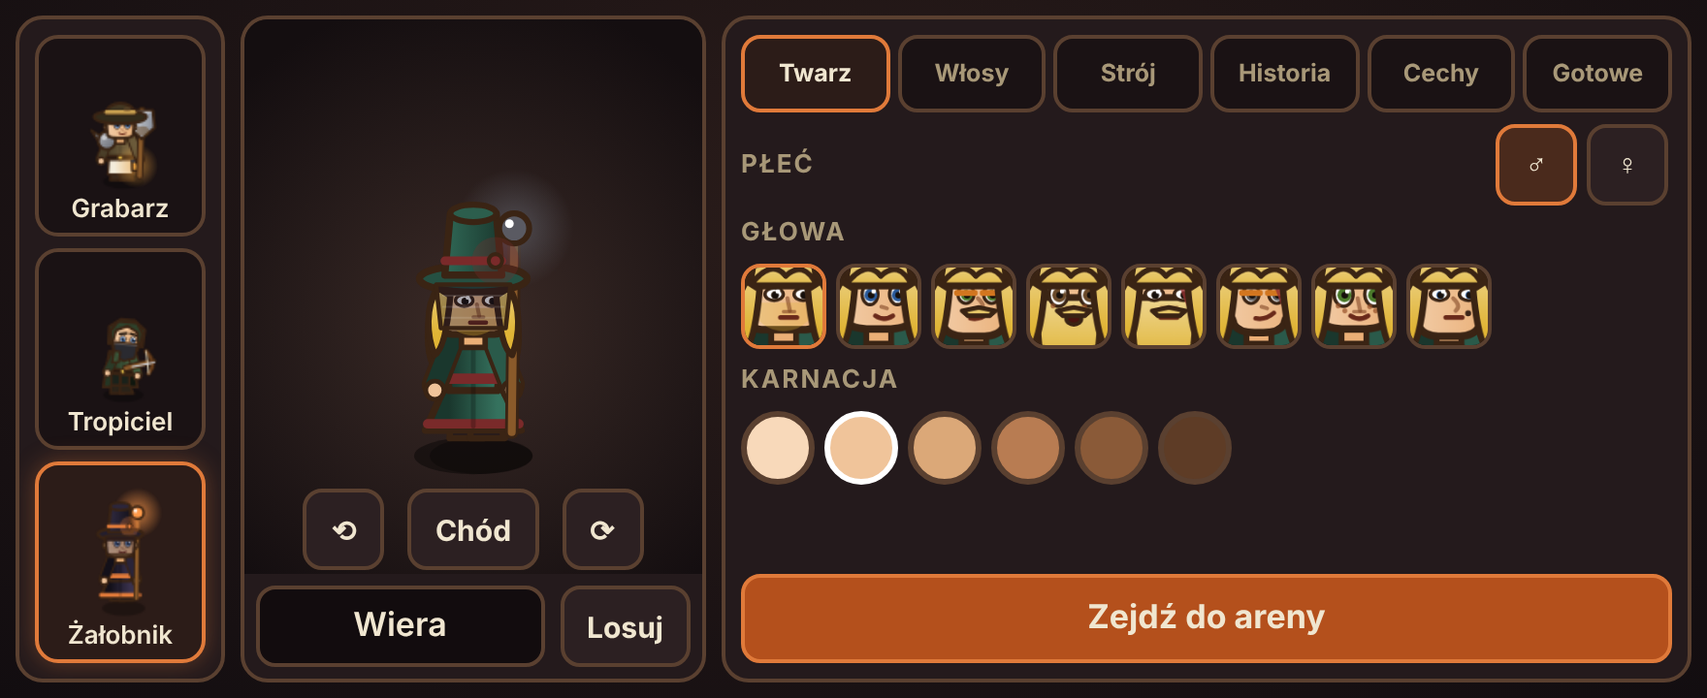
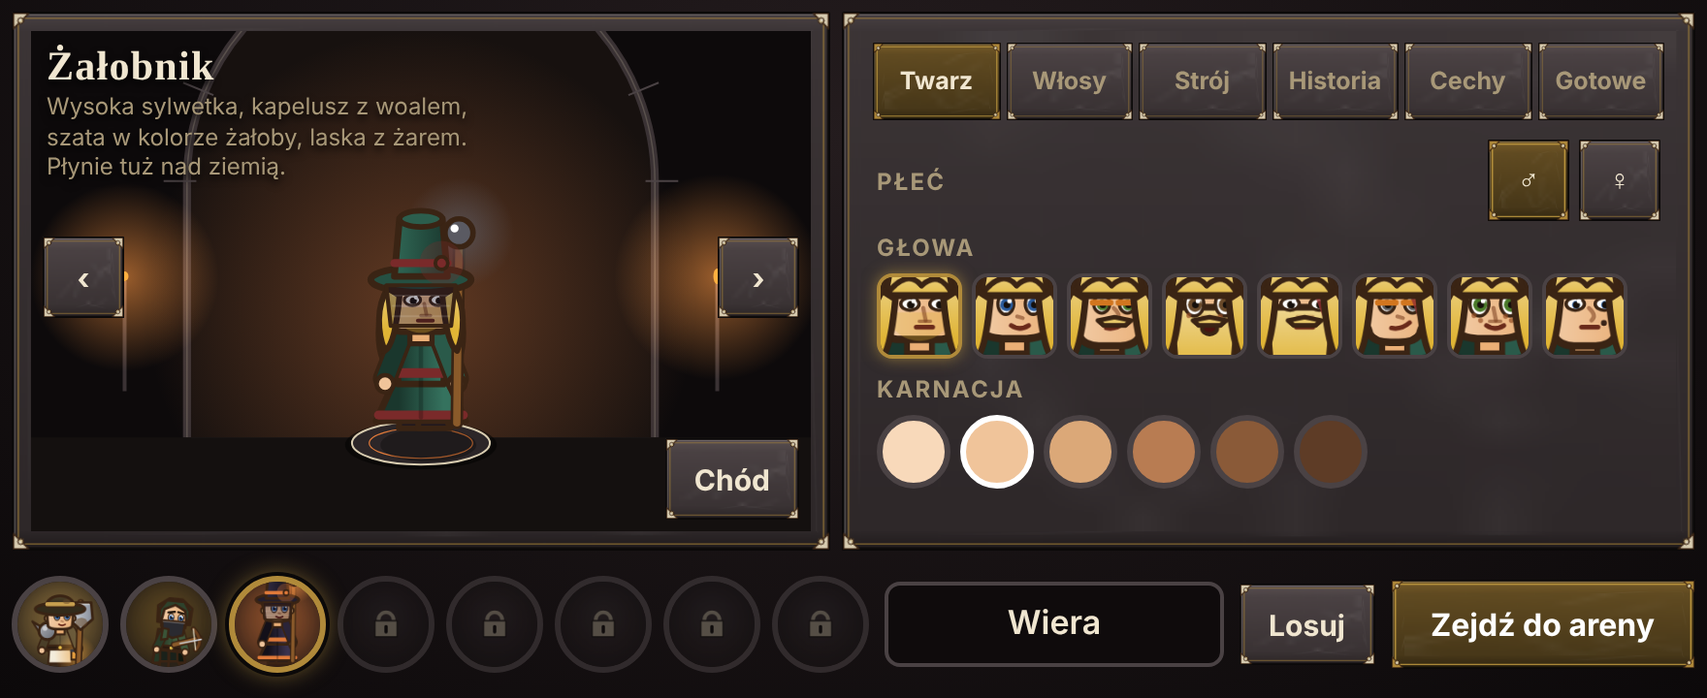
Kreator jak w Dofusie (scena, rząd klas ze slotami), oprawa z żelaza i kości, ramki w walce
Claude-Session: https://claude.ai/code/session_01YGgK3XekFYaLDhBRBtmmRq

diff --git a/www/kreator.html b/www/kreator.html
@@ -1,57 +1,64 @@
 <!doctype html><html lang="pl"><head><meta charset="utf-8">
 <meta name="viewport" content="width=device-width,initial-scale=1,maximum-scale=1,user-scalable=no"><title>Kreator postaci</title>
 <style>
-:root{--bg:#161014;--panel:#241a1c;--edge:#5a4030;--ink:#f0e6d0;--dim:#a89878;--ember:#e07a3a}
-*{box-sizing:border-box}html,body{margin:0;height:100%;background:radial-gradient(ellipse at 50% 30%,#2a1c1a,#120d10);color:var(--ink);font:15px system-ui,sans-serif;-webkit-user-select:none;user-select:none;overscroll-behavior:none}
-#app{display:grid;grid-template-columns:108px minmax(200px,1fr) minmax(330px,500px);gap:8px;height:100%;padding:8px;max-width:1280px;margin:0 auto}
-#rotate{display:none;position:fixed;inset:0;z-index:9;background:#120d10;color:var(--ink);align-items:center;justify-content:center;text-align:center;font:700 20px system-ui;padding:24px}
+:root{--bg:#120e10;--ink:#f0e6d0;--dim:#a89878;--ember:#e07a3a;--brass:#b08a3a;--edge:#3a3234;--panel:#1f1a1b}
+*{box-sizing:border-box}html,body{margin:0;height:100%;background:radial-gradient(ellipse at 50% 20%,#241c1e,#0c090a);color:var(--ink);font:15px system-ui,sans-serif;-webkit-user-select:none;user-select:none;overscroll-behavior:none}
+button{touch-action:manipulation;font-family:inherit;color:var(--ink)}
+#app{display:grid;grid-template-columns:minmax(0,1fr) minmax(330px,440px);grid-template-rows:minmax(0,1fr) 64px;gap:6px;height:100%;padding:6px;max-width:1280px;margin:0 auto}
+#rotate{display:none;position:fixed;inset:0;z-index:9;background:#120d10;align-items:center;justify-content:center;text-align:center;font:700 20px system-ui;padding:24px}
 @media (orientation:portrait){#rotate{display:flex}}
-.panel{background:var(--panel);border:2px solid var(--edge);border-radius:14px;padding:8px;overflow:hidden;min-height:0}
-h2{margin:0 0 8px;font:700 13px system-ui;letter-spacing:.08em;text-transform:uppercase;color:var(--dim)}
-#classes{display:flex;flex-direction:column;gap:6px}
-.card{flex:1 1 0;min-height:0;overflow:hidden;border:2px solid var(--edge);border-radius:12px;background:#1a1214;color:var(--ink);padding:4px;display:flex;flex-direction:column;align-items:center;gap:2px;font:600 13px system-ui;touch-action:manipulation}
-.card canvas{flex:1 1 0;min-height:0;width:100%;object-fit:contain}
-.card span{white-space:nowrap;font-size:13px}
-.card.on{border-color:var(--ember);background:#2c1c18;box-shadow:0 0 12px rgba(224,122,58,.35)}
-#stage{position:relative;display:flex;flex-direction:column;padding:0;overflow:hidden}
-#view{flex:1;min-height:0;width:100%;display:block}
-#rot{position:absolute;left:0;right:0;bottom:56px;display:flex;justify-content:center;gap:12px}
-#name{display:flex;gap:8px;padding:6px}
-#name input{flex:1;min-width:0;height:42px;border-radius:10px;border:2px solid var(--edge);background:#120c0e;color:var(--ink);font:600 17px system-ui;padding:0 12px;text-align:center}
-button{touch-action:manipulation;font-family:inherit}
-.btn{min-width:42px;height:42px;border-radius:10px;border:2px solid var(--edge);background:#2c2022;color:var(--ink);font:700 15px system-ui;padding:0 12px}
-.btn.on{border-color:var(--ember);background:#4a2a1c}
-.btn.go{background:#b4501c;border-color:#e07a3a;font-size:17px;height:46px;width:100%}
+.fr{background:var(--panel);border:10px solid #2c2628;border-image:var(--f-panel) 16 fill/10px stretch;min-height:0;min-width:0;position:relative}
+#stage{grid-column:1;grid-row:1;overflow:hidden;padding:0}
+#view{position:absolute;inset:0;width:100%;height:100%;display:block}
+#cname{position:absolute;left:8px;top:6px;max-width:62%;pointer-events:none;text-shadow:0 2px 4px #000}
+#cname b{display:block;font:700 21px Georgia,serif;letter-spacing:.03em}#cname small{display:block;color:var(--dim);font-size:12px;line-height:1.3}
+#left,#right{position:absolute;top:50%;margin-top:-23px}#left{left:6px}#right{right:6px}
+#walk{position:absolute;right:6px;bottom:6px}
+#opts{grid-column:2;grid-row:1;display:flex;flex-direction:column;gap:6px;padding:0}
+#bottom{grid-column:1/-1;grid-row:2;display:flex;align-items:center;gap:8px;min-width:0}
+#classes{display:flex;gap:6px;flex:none}
+.med{width:50px;height:50px;border-radius:50%;padding:0;border:3px solid #4a4244;background:#1a1516;overflow:hidden;position:relative;flex:none}
+.med canvas{width:100%;height:100%;display:block}
+.med.on{border-color:var(--brass);box-shadow:0 0 0 2px #0b0909,0 0 12px rgba(224,180,74,.55)}
+.med.locked{opacity:.55}
+#nm{flex:1;min-width:110px;height:44px;border:2px solid #4a4244;border-radius:8px;background:#0f0b0c;color:var(--ink);font:600 17px system-ui;padding:0 10px;text-align:center}
+.btn{min-width:42px;height:42px;border:7px solid transparent;border-image:var(--f-btn) 16 fill/7px stretch;background:#2a2425;font:700 15px system-ui;padding:0 8px;display:inline-flex;align-items:center;justify-content:center}
+.btn.on{border-image-source:var(--f-on)}
+.btn.go{height:46px;padding:0 14px;font-size:16px;flex:none;border-image-source:var(--f-on);color:#fff}
+#tabs{display:grid;grid-template-columns:repeat(6,1fr);gap:3px;flex:none;padding:6px 6px 0}
+.tab{height:40px;min-width:0;border:6px solid transparent;border-image:var(--f-btn) 16 fill/6px stretch;background:#2a2425;color:var(--dim);font:700 12.5px system-ui;padding:0}
+.tab.on{border-image-source:var(--f-on);color:var(--ink)}
+#body{flex:1 1 0;min-height:0;overflow:auto;padding:4px 8px 6px}
+h2{margin:0 0 6px;font:700 12px system-ui;letter-spacing:.09em;text-transform:uppercase;color:var(--dim)}
 .row{display:flex;flex-wrap:wrap;gap:5px;margin-bottom:8px}
-#opts{display:flex;flex-direction:column;gap:6px}
-#tabs{display:grid;grid-template-columns:repeat(6,1fr);gap:4px;flex:none}
-.tab{height:40px;min-width:0;border:2px solid var(--edge);border-radius:10px;background:#1a1214;color:var(--dim);font:700 12.5px system-ui;padding:0 1px}
-.tab.on{border-color:var(--ember);color:var(--ink);background:#2c1c18}
-#body{flex:1 1 0;min-height:0;overflow:auto;padding-right:2px}
-#foot{flex:none}
-.hd{display:flex;align-items:center;justify-content:space-between;margin-bottom:6px}.hd h2{margin:0}
-.th{width:44px;height:44px;border:2px solid var(--edge);border-radius:10px;background:#1a1214;padding:0;overflow:hidden}
-.th.on{border-color:var(--ember)}
-.sw{width:38px;height:38px;border-radius:50%;border:3px solid var(--edge);padding:0}
+.hd{display:flex;align-items:center;justify-content:space-between;margin-bottom:6px}.hd h2{margin:0}.hd .row{margin:0}
+.th{width:44px;height:44px;border:2px solid #4a4244;border-radius:8px;background:#1a1516;padding:0;overflow:hidden}
+.th.on{border-color:var(--brass);box-shadow:0 0 8px rgba(224,180,74,.5)}
+.sw{width:38px;height:38px;border-radius:50%;border:3px solid #4a4244;padding:0}
 .sw.on{border-color:#fff}
-.org{width:100%;text-align:left;border:2px solid var(--edge);border-radius:10px;background:#1a1214;color:var(--ink);padding:6px 10px;margin-bottom:6px}
+.org{width:100%;text-align:left;border:2px solid #4a4244;border-radius:8px;background:#1a1516;padding:6px 10px;margin-bottom:6px}
 .org .t{display:flex;justify-content:space-between;gap:8px}.org span{display:block;color:var(--dim);font-size:12px;line-height:1.3}.org i{color:var(--ember);font-style:normal;font-size:12px;white-space:nowrap}
-.org.on{border-color:var(--ember);background:#2c1c18}
-.traits{display:grid;grid-template-columns:1fr 1fr;gap:5px}.chip{height:auto;min-height:44px;text-align:left;padding:4px 8px;line-height:1.2;font-size:14px;min-width:0}.chip small{display:block;color:var(--dim);font-weight:400;font-size:11.5px}
+.org.on{border-color:var(--brass);background:#2a2116}
+.traits{display:grid;grid-template-columns:1fr 1fr;gap:5px}
+.chip{height:auto;min-height:44px;text-align:left;padding:2px 4px;line-height:1.2;font-size:14px;min-width:0;display:block}.chip small{display:block;color:var(--dim);font-weight:400;font-size:11.5px}
 #sum{font-size:14px;line-height:1.55;color:var(--dim)}#sum b{color:var(--ink)}
-#msg{color:var(--ember);min-height:16px;font-size:13px;margin:0 0 6px}
+#msg{color:var(--ember);min-height:16px;font-size:12.5px;margin:0 0 5px}
 </style></head><body><div id="app">
-<div class="panel" id="classes"><h2 style="display:none">Klasa</h2></div>
-<div class="panel" id="stage"><canvas id="view"></canvas><div id="rot"><button class="btn" id="left">⟲</button><button class="btn" id="walk">Chód</button><button class="btn" id="right">⟳</button></div>
-<div id="name"><input id="nm" maxlength="24" aria-label="Imię"><button class="btn" id="rnd">Losuj</button></div></div>
-<div class="panel" id="opts"><div id="tabs"></div><div id="body"></div><div id="foot"></div></div></div><div id="rotate">Obróć telefon do poziomu</div>
+<div class="fr" id="stage"><canvas id="view"></canvas>
+<div id="cname"><b id="cn"></b><small id="cr"></small></div>
+<button class="btn" id="left" aria-label="Obróć w lewo">‹</button><button class="btn" id="right" aria-label="Obróć w prawo">›</button><button class="btn" id="walk">Chód</button></div>
+<div class="fr" id="opts"><div id="tabs"></div><div id="body"></div></div>
+<div id="bottom"><div id="classes"></div><input id="nm" maxlength="24" aria-label="Imię"><button class="btn" id="rnd">Losuj</button><button class="btn go" id="go">Zejdź do areny</button></div></div>
+<div id="rotate">Obróć telefon do poziomu</div>
 <script type="module">
-import {heroSpec,CLASS_IDS,CLASS_LOOKS,SKIN_TONES,HAIR_COLORS,HAIR_NAMES,facesFor,HAIR_BY_GENDER,SWATCHES,COLOR_SLOTS,randomHeroOpts,randomName} from '../src/art/classes.js';
+import {heroSpec,CLASS_IDS,CLASS_SLOTS,CLASS_LOOKS,SKIN_TONES,HAIR_COLORS,HAIR_NAMES,facesFor,HAIR_BY_GENDER,SWATCHES,COLOR_SLOTS,randomHeroOpts,randomName} from '../src/art/classes.js';
 import {drawCharacter,DIRS} from '../src/art/characters.js';
 import {CLASSES,ORIGINS,TRAITS,MAX_TRAITS,startStats} from '../src/game/classdata.js';
 import {glow} from '../src/art/mood.js';
+import {installFrames,drawLock} from '../src/art/ui.js';
 import {newCharacter} from '../src/game/progression.js';
 import {saveCharacter} from '../src/game/save.js';
+installFrames();
 const $=id=>document.getElementById(id),el=(t,a={},k=[])=>{const e=document.createElement(t);Object.assign(e,a);k.forEach(c=>e.append(c));return e};
 const ORDER=['SE','SW','NW','NE'];
 const TABS=[['twarz','Twarz'],['wlosy','Włosy'],['stroj','Strój'],['org','Historia'],['cechy','Cechy'],['gotowe','Gotowe']];
@@ -60,21 +67,28 @@ const st={classId:'grabarz',female:false,face:1,hairStyle:'short',hair:HAIR_COLO
 const spec=(over={})=>heroSpec(st.classId,{...st,seed:st.heroSeed,...over});
 const dirOpt=()=>DIRS[ORDER[st.dir]];
 
-function thumb(cv,sp,K0=2.9){const K=K0*cv.width/58;const g=cv.getContext('2d');g.clearRect(0,0,cv.width,cv.height);g.fillStyle='#241a1c';g.fillRect(0,0,cv.width,cv.height);
+function thumb(cv,sp,K0=2.9){const K=K0*cv.width/58;const g=cv.getContext('2d');g.clearRect(0,0,cv.width,cv.height);g.fillStyle='#1a1516';g.fillRect(0,0,cv.width,cv.height);
   drawCharacter(g,cv.width/2,cv.height*0.52+35*sp.sc*K,{...sp,sc:sp.sc*K,hat:null},{...DIRS.SE})}
-function portrait(cv,id){const g=cv.getContext('2d');g.clearRect(0,0,cv.width,cv.height);const sp=heroSpec(id,{face:1,colors:CLASS_LOOKS[id].colors});drawCharacter(g,cv.width/2,cv.height-6,{...sp,sc:sp.sc*0.93},{...DIRS.SE})}
+// medalion klasy: popiersie na tle w kolorze klasy; zablokowany slot to kłódka
+function medal(cv,slot){const g=cv.getContext('2d'),W=cv.width;g.clearRect(0,0,W,W);
+  const gr=g.createRadialGradient(W/2,W*.4,4,W/2,W/2,W*.7);
+  if(slot.locked){gr.addColorStop(0,'#2a2426');gr.addColorStop(1,'#151112');g.fillStyle=gr;g.fillRect(0,0,W,W);drawLock(g,W/2,W/2,W*.42);return}
+  const L=CLASS_LOOKS[slot.id];gr.addColorStop(0,L.colors[1]+'88');gr.addColorStop(1,'#151112');g.fillStyle=gr;g.fillRect(0,0,W,W);
+  const sp=heroSpec(slot.id,{face:1,colors:L.colors});drawCharacter(g,W/2,W*1.02,{...sp,sc:sp.sc*W/58},{...DIRS.SE})}
+function thumbBtn(id,on,fn,over,title){const cv=el('canvas',{width:88,height:88});cv.style.cssText='width:100%;height:100%;display:block';const b=el('button',{className:'th'+(on?' on':''),id,title},[cv]);b.onclick=fn;thumb(cv,spec(over));return b}
+
 function build(){
-  const cl=$('classes');cl.querySelectorAll('.card').forEach(n=>n.remove());
-  for(const id of CLASS_IDS){const c=CLASSES[id],cv=el('canvas',{width:70,height:86});const b=el('button',{className:'card'+(st.classId===id?' on':''),id:'cls-'+id},[cv,el('span',{textContent:c.name})]);
-    b.onclick=()=>{st.classId=id;st.colors=[...CLASS_LOOKS[id].colors];render()};cl.append(b);portrait(cv,id)}
+  const cl=$('classes');cl.innerHTML='';
+  for(const sl of CLASS_SLOTS){const cv=el('canvas',{width:100,height:100}),b=el('button',{className:'med'+(sl.locked?' locked':'')+(st.classId===sl.id?' on':''),id:'cls-'+sl.id,title:sl.locked?'Wkrótce':CLASSES[sl.id].name},[cv]);
+    if(sl.locked)b.setAttribute('aria-disabled','true');else b.onclick=()=>{st.classId=sl.id;st.colors=[...CLASS_LOOKS[sl.id].colors];render()};cl.append(b);medal(cv,sl)}
+  $('cn').textContent=CLASSES[st.classId].name;$('cr').textContent=CLASS_LOOKS[st.classId].note;
   const tb=$('tabs');tb.innerHTML='';
   for(const [id,t] of TABS){const b=el('button',{className:'tab'+(st.tab===id?' on':''),textContent:t,id:'tab-'+id});b.onclick=()=>{st.tab=id;st.saved=undefined;render()};tb.append(b)}
   const o=$('body'),keep=st._tab===st.tab?o.scrollTop:0;st._tab=st.tab;o.innerHTML='';
   const sec=(t,k)=>{o.append(el('h2',{textContent:t}));const r=el('div',{className:'row'},k);o.append(r);return r};
-  const thumbBtn=(id,on,fn,over,title)=>{const cv=el('canvas',{width:88,height:88});cv.style.cssText='width:100%;height:100%;display:block';const b=el('button',{className:'th'+(on?' on':''),id,title},[cv]);b.onclick=fn;thumb(cv,spec(over));return b};
   if(st.tab==='twarz'){
     const hd=el('div',{className:'hd'},[el('h2',{textContent:'Płeć'})]);
-    const gb=el('div',{className:'row'});gb.style.margin='0';[['♂',false],['♀',true]].forEach(([t,v])=>{const b=el('button',{className:'btn'+(st.female===v?' on':''),textContent:t,id:v?'female':'male'});b.onclick=()=>{st.female=v;const hs=HAIR_BY_GENDER[v?'f':'m'];if(!hs.includes(st.hairStyle))st.hairStyle=hs[0];if(v)st.beard=null;render()};gb.append(b)});hd.append(gb);o.append(hd);
+    const gb=el('div',{className:'row'});[['♂',false],['♀',true]].forEach(([t,v])=>{const b=el('button',{className:'btn'+(st.female===v?' on':''),textContent:t,id:v?'female':'male'});b.onclick=()=>{st.female=v;const hs=HAIR_BY_GENDER[v?'f':'m'];if(!hs.includes(st.hairStyle))st.hairStyle=hs[0];if(v)st.beard=null;render()};gb.append(b)});hd.append(gb);o.append(hd);
     sec('Głowa',facesFor(st.female).map((_,i)=>thumbBtn('face-'+i,st.face===i,()=>{st.face=i;render()},{face:i})));
     sec('Karnacja',SKIN_TONES.map((c,i)=>{const b=el('button',{className:'sw'+(st.skin===c?' on':''),id:'sk-'+i});b.style.background=c;b.onclick=()=>{st.skin=c;render()};return b}));
   }
@@ -90,7 +104,7 @@ function build(){
     ORIGINS.forEach((x,i)=>{const b=el('button',{className:'org'+(st.origin===i?' on':''),id:'org-'+i},[el('div',{className:'t'},[el('b',{textContent:x.name}),el('i',{textContent:x.bonusText})]),el('span',{textContent:x.story})]);b.onclick=()=>{st.origin=i;render()};o.append(b)});
   }
   if(st.tab==='cechy'){
-    o.append(el('h2',{textContent:`Wybierz ${MAX_TRAITS}: każda ma plus i skazę`}));o.append(el('div',{id:'msg'}));
+    o.append(el('div',{id:'msg',textContent:`Wybierz ${MAX_TRAITS} cechy: każda ma plus i skazę.`}));
     const tr=el('div',{className:'traits'});TRAITS.forEach(t=>{const on=st.traits.includes(t.id);const fmt=d=>Object.entries(d).map(([k,v])=>`${v>0?'+':''}${v} ${({hp:'życia',initiative:'inicjatywy',earth:'mocy Ziemi',fire:'mocy Ognia',water:'mocy Wody',air:'mocy Powietrza',resistAll:'odporności'})[k]}`).join(', ');
       const b=el('button',{className:'btn chip'+(on?' on':''),id:'tr-'+t.id},[document.createTextNode(t.name),el('small',{textContent:`${fmt(t.plus)}; ${fmt(t.minus)}`})]);
       b.onclick=()=>{if(on)st.traits=st.traits.filter(x=>x!==t.id);else if(st.traits.length>=MAX_TRAITS){$('msg').textContent=`Maksymalnie ${MAX_TRAITS} cechy. Odznacz jedną.`;return}else st.traits=[...st.traits,t.id];render()};tr.append(b)});o.append(tr);
@@ -101,24 +115,34 @@ function build(){
       +(st.saved===true?'<br><b style="color:var(--ember)">Bohater zapisany.</b> <a href="postac.html" style="color:#ffb070">Karta postaci</a> · <a href="walka.html" style="color:#ffb070">Do walki</a>':st.saved===false?'<br><b style="color:#e08a6a">Nie udało się zapisać postaci (przeglądarka blokuje pamięć).</b>':'');
     o.append(sm);
   }
-  const ft=$('foot');ft.innerHTML='';const go=el('button',{className:'btn go',textContent:'Zejdź do areny',id:'go'});
-  go.onclick=()=>{const s=stats();window.__hero={name:st.name||'Bezimienny',classId:st.classId,look:spec(),origin:ORIGINS[st.origin].id,traits:[...st.traits],stats:s};const look={female:st.female,skin:st.skin,hair:st.hair,hairStyle:st.hairStyle,beard:st.beard,face:st.face,colors:[...st.colors]},ch=newCharacter({name:st.name||'Bezimienny',classId:st.classId,origin:ORIGINS[st.origin].id,traits:st.traits,look}),ok=saveCharacter(ch);window.__saved=ok;st.saved=ok;st.tab='gotowe';render();console.log(JSON.stringify(window.__hero))};ft.append(go);
   o.scrollTop=keep;
 }
+$('go').onclick=()=>{const s=stats();window.__hero={name:st.name||'Bezimienny',classId:st.classId,look:spec(),origin:ORIGINS[st.origin].id,traits:[...st.traits],stats:s};const look={female:st.female,skin:st.skin,hair:st.hair,hairStyle:st.hairStyle,beard:st.beard,face:st.face,colors:[...st.colors]},ch=newCharacter({name:st.name||'Bezimienny',classId:st.classId,origin:ORIGINS[st.origin].id,traits:st.traits,look}),ok=saveCharacter(ch);window.__saved=ok;st.saved=ok;st.tab='gotowe';render();console.log(JSON.stringify(window.__hero))};
 function render(){build();$('nm').value=st.name}
 $('nm').oninput=e=>{st.name=e.target.value;const b=$('sum')&&$('sum').querySelector('b');if(b)b.textContent=st.name||'Bezimienny'};
-$('rnd').onclick=()=>{st.nameSeed++;st.heroSeed++;const r=randomHeroOpts(st.nameSeed);Object.assign(st,{female:r.female,skin:r.skin,hair:r.hair,hairStyle:(HAIR_BY_GENDER[r.female?'f':'m']).includes(r.hairStyle)?r.hairStyle:HAIR_BY_GENDER[r.female?'f':'m'][0],beard:null,face:r.face,colors:r.colors,name:randomName(st.nameSeed)});render()};
+$('rnd').onclick=()=>{st.nameSeed++;st.heroSeed++;const r=randomHeroOpts(st.nameSeed),hs=HAIR_BY_GENDER[r.female?'f':'m'];Object.assign(st,{female:r.female,skin:r.skin,hair:r.hair,hairStyle:hs.includes(r.hairStyle)?r.hairStyle:hs[0],beard:null,face:r.face,colors:r.colors,name:randomName(st.nameSeed)});render()};
 $('left').onclick=()=>{st.dir=(st.dir+3)%4};$('right').onclick=()=>{st.dir=(st.dir+1)%4};
 $('walk').onclick=()=>{st.walk=!st.walk;$('walk').classList.toggle('on',st.walk)};
 const cv=$('view'),g=cv.getContext('2d');
 function fit(){const r=cv.getBoundingClientRect(),d=Math.min(2,devicePixelRatio||1);cv.width=Math.round(r.width*d);cv.height=Math.round(r.height*d)}
 addEventListener('resize',fit);
-function frame(now){const W=cv.width,H=cv.height;g.setTransform(1,0,0,1,0,0);g.clearRect(0,0,W,H);
-  const grad=g.createRadialGradient(W/2,H*.55,10,W/2,H*.55,Math.max(W,H)*.6);grad.addColorStop(0,'#3a2a26');grad.addColorStop(1,'#140e10');g.fillStyle=grad;g.fillRect(0,0,W,H);
-  const sp=spec(),sc=Math.min(H*.6/90,W*.55/46),cx=W/2,fy=H*.78;
-  g.fillStyle='rgba(0,0,0,.4)';g.beginPath();g.ellipse(cx,fy+4,sc*16,sc*5,0,0,7);g.fill();
-  drawCharacter(g,cx,fy,{...sp,sc:sp.sc*sc/1.0},{...dirOpt(),t:st.walk?(now/700)%1:undefined});
-  requestAnimationFrame(frame)}
+// scena: łuk areny z pochodniami, podest z żelaza i kości, poświata w kolorze klasy
+function scene(W,H,now){
+  g.fillStyle='#0d0a0b';g.fillRect(0,0,W,H);
+  const col=CLASS_LOOKS[st.classId].colors[1],cx=W/2,fy=H*.82,rx=Math.min(W*.3,H*.5);
+  g.fillStyle='#17110f';g.beginPath();g.moveTo(cx-rx,fy);g.lineTo(cx-rx,H*.3);g.arc(cx,H*.3,rx,Math.PI,0);g.lineTo(cx+rx,fy);g.closePath();g.fill();
+  g.lineWidth=Math.max(3,H*.016);g.strokeStyle='#3a3234';g.stroke();g.lineWidth=1.5;g.strokeStyle='#d8ccb033';g.stroke();
+  for(let i=0;i<9;i++){const a=Math.PI+i/8*Math.PI;g.beginPath();g.moveTo(cx+Math.cos(a)*rx*.96,H*.3+Math.sin(a)*rx*.96);g.lineTo(cx+Math.cos(a)*rx*1.1,H*.3+Math.sin(a)*rx*1.1);g.lineWidth=2;g.strokeStyle='#4a4244';g.stroke()}
+  glow(g,cx,H*.55,H*.55,col.replace('#','').match(/../g).map(h=>parseInt(h,16)).join(','),.34);
+  for(const s of [-1,1]){const tx=cx+s*(rx+W*.08),ty=H*.5,f=Math.sin(now/130+s)*2;g.fillStyle='#3a3234';g.fillRect(tx-2,ty,4,H*.22);glow(g,tx,ty-4,H*.2+f*3,'255,150,60',.55);g.fillStyle='#ffb040';g.beginPath();g.ellipse(tx,ty-5,4,7+f,0,0,7);g.fill()}
+  g.fillStyle='#14100f';g.fillRect(0,fy-4,W,H-fy+4);
+  const sp=spec(),sc=Math.min(H*.62/90,W*.5/46);
+  g.fillStyle='rgba(0,0,0,.5)';g.beginPath();g.ellipse(cx,fy+4,sc*22,sc*7,0,0,7);g.fill();
+  g.beginPath();g.ellipse(cx,fy+2,sc*20,sc*6.2,0,0,7);g.fillStyle='#2c2628';g.fill();g.lineWidth=2;g.strokeStyle='#d8ccb0';g.stroke();
+  g.beginPath();g.ellipse(cx,fy+2,sc*15,sc*4.4,0,0,7);g.lineWidth=1.2;g.strokeStyle=col;g.stroke();
+  drawCharacter(g,cx,fy,{...sp,sc:sp.sc*sc},{...dirOpt(),t:st.walk?(now/700)%1:undefined});
+}
+function frame(now){g.setTransform(1,0,0,1,0,0);g.clearRect(0,0,cv.width,cv.height);scene(cv.width,cv.height,now);requestAnimationFrame(frame)}
 fit();render();requestAnimationFrame(frame);
 window.__kreator={get state(){return st},get hero(){return window.__hero||null},spec};
 </script></body></html>

diff --git a/www/walka.html b/www/walka.html
@@ -5,7 +5,7 @@
 html,body{margin:0;height:100%;background:#0c1210;color:#e8f0d0;font:15px system-ui,sans-serif;-webkit-user-select:none;user-select:none;overscroll-behavior:none;overflow:hidden}
 #app{position:fixed;inset:0}
 canvas#c{position:absolute;inset:0;width:100%;height:100%;touch-action:none;display:block}
-.pill{position:absolute;background:rgba(10,14,8,.8);border-radius:12px;padding:8px 12px}
+.pill{position:absolute;background:rgba(14,11,12,.86);border:7px solid #2c2628;border-image:var(--f-panel) 16 fill/7px stretch;padding:2px 6px}
 #top{position:absolute;top:max(8px,env(safe-area-inset-top));left:max(8px,env(safe-area-inset-left));right:max(8px,env(safe-area-inset-right));display:flex;gap:8px;align-items:flex-start;pointer-events:none}
 #top .pill{position:static}
 #hud{font-weight:700;display:flex;gap:10px;font-size:14px;white-space:nowrap}
@@ -25,15 +25,15 @@ canvas#c{position:absolute;inset:0;width:100%;height:100%;touch-action:none;disp
 #foe canvas{width:30px;height:30px}
 #card{left:max(8px,env(safe-area-inset-left));top:calc(max(8px,env(safe-area-inset-top)) + 50px);width:max-content;max-width:46vw;display:none;font-size:13px;line-height:1.35;text-align:left;pointer-events:none}
 #card small{color:#a89878;display:block}
-#bar{position:absolute;left:50%;transform:translateX(-50%);bottom:max(10px,env(safe-area-inset-bottom));display:flex;align-items:center;gap:6px;background:rgba(10,14,8,.85);border-radius:18px;padding:6px 8px;touch-action:none}
+#bar{border:7px solid #2c2628;border-image:var(--f-panel) 16 fill/7px stretch;position:absolute;left:50%;transform:translateX(-50%);bottom:max(10px,env(safe-area-inset-bottom));display:flex;align-items:center;gap:6px;background:rgba(14,11,12,.88);padding:2px 4px;touch-action:none}
 #slots{display:flex;gap:6px;min-width:calc(var(--s) * 6 + 30px)}
 .slot{width:var(--s);height:var(--s);padding:0;border:0;border-radius:14px;background:transparent;touch-action:none}
 .slot canvas{width:100%;height:100%;display:block}
-.pg{width:calc(var(--s) * .6);height:var(--s);border:0;border-radius:12px;background:#2c2022;color:#e8dcc0;font-size:24px;touch-action:manipulation}
+.pg{width:calc(var(--s) * .6);height:var(--s);border:6px solid transparent;border-image:var(--f-btn) 16 fill/6px stretch;border-radius:0;background:#2c2022;color:#e8dcc0;font-size:24px;touch-action:manipulation}
 .pg:disabled{opacity:.3}
 #pgi{position:absolute;top:-17px;left:50%;transform:translateX(-50%);font-size:12px;color:#a89878}
 button{font-family:inherit}
-#end{display:flex;flex-direction:column;align-items:center;justify-content:center;line-height:1.15;background:linear-gradient(90deg,#3b6a2a var(--p,100%),#2a3a24 var(--p,100%));position:absolute;right:max(10px,env(safe-area-inset-right));bottom:max(10px,env(safe-area-inset-bottom));width:min(170px,26vw);height:calc(var(--s) + 12px);border:0;border-radius:14px;background:#3b6a2a;color:#fff;font:700 16px system-ui;box-shadow:0 3px 10px rgba(0,0,0,.4);touch-action:manipulation}
+#end{display:flex;flex-direction:column;align-items:center;justify-content:center;line-height:1.15;background:linear-gradient(90deg,#3b6a2a var(--p,100%),#2a3a24 var(--p,100%));position:absolute;right:max(10px,env(safe-area-inset-right));bottom:max(10px,env(safe-area-inset-bottom));width:min(170px,26vw);height:calc(var(--s) + 12px);border:6px solid #b08a3a;border-image:var(--f-on) 16/6px stretch;border-radius:0;background:#3b6a2a;color:#fff;font:700 16px system-ui;box-shadow:0 3px 10px rgba(0,0,0,.4);touch-action:manipulation}
 #end.low{background:linear-gradient(90deg,#b4401c var(--p,100%),#3a2420 var(--p,100%))}
 #end small{font:600 13px system-ui;opacity:.85;min-height:15px}
 #end:disabled{background:#2a3324;color:#6a7a5a;box-shadow:none}
@@ -57,6 +57,8 @@ button{font-family:inherit}
 <div id="banner"><span id="bt"></span><button id="again">Jeszcze raz</button></div></div>
 <script type="module">
 import {IsoGrid} from '../src/grid.js';
+import {installFrames} from '../src/art/ui.js';
+installFrames();
 import {genCharacter,drawCharacter,DIRS} from '../src/art/characters.js';
 import {heroSpec} from '../src/art/classes.js';
 import {drawGridLines,fillCells,drawCellOutline} from '../src/art/gridview.js';

diff --git a/src/art/ui.js b/src/art/ui.js
@@ -1,0 +1,41 @@
+// Oprawa interfejsu: kute żelazo, kość i mosiężny akcent. Wszystko rysuje kod, bez plików graficznych.
+// drawPlate rysuje kafel pod ramkę 9-częściową (border-image): rogi z nitami i kościanymi okuciami, krawędzie jednolite.
+import { rng } from './rng.js';
+import { kit } from './kit.js';
+import { shade } from './color.js';
+
+export const THEME = { edge: '#0b0909', bone: '#d8ccb0', brass: '#b08a3a', brassHi: '#e0b44a', ink: '#f0e6d0', dim: '#a89878', ember: '#e07a3a' };
+const KINDS = { panel: ['#4a4244', '#1f1a1b'], btn: ['#5a5052', '#2a2425'], on: ['#7a5e2a', '#2e2410'] };
+
+export function drawPlate(g, S, kind = 'panel') {
+  const { poly, circ, ln } = kit(g), [hi, lo] = KINDS[kind] || KINDS.panel, r = rng(kind.length * 131 + S);
+  const grad = g.createLinearGradient(0, 0, 0, S); grad.addColorStop(0, hi); grad.addColorStop(1, lo);
+  g.fillStyle = grad; g.fillRect(0, 0, S, S);
+  // ślady obróbki: delikatne rysy na żelazie
+  for (let i = 0; i < 14; i++) { const x = 14 + r() * (S - 28), y = 14 + r() * (S - 28); ln([[x, y], [x + r.range(-5, 5), y + r.range(2, 6)]], 0.8, 'rgba(255,255,255,.05)'); }
+  g.lineWidth = 2; g.strokeStyle = THEME.edge; g.strokeRect(1, 1, S - 2, S - 2);
+  g.lineWidth = 1; g.strokeStyle = 'rgba(255,255,255,.2)'; g.beginPath(); g.moveTo(2.5, S - 2.5); g.lineTo(2.5, 2.5); g.lineTo(S - 2.5, 2.5); g.stroke();
+  g.strokeStyle = 'rgba(0,0,0,.45)'; g.beginPath(); g.moveTo(S - 2.5, 2.5); g.lineTo(S - 2.5, S - 2.5); g.lineTo(2.5, S - 2.5); g.stroke();
+  g.lineWidth = 1.2; g.strokeStyle = kind === 'on' ? THEME.brassHi : `${THEME.brass}aa`; g.strokeRect(5.5, 5.5, S - 11, S - 11);
+  // kościane okucia w rogach i nity
+  const c = 14;
+  for (const [sx, sy] of [[0, 0], [1, 0], [0, 1], [1, 1]]) {
+    const X = sx ? S : 0, Y = sy ? S : 0, dx = sx ? -1 : 1, dy = sy ? -1 : 1;
+    poly([[X + dx * 1.5, Y + dy * 1.5], [X + dx * c, Y + dy * 1.5], [X + dx * 1.5, Y + dy * c]], kind === 'on' ? THEME.brass : THEME.bone, 1.2);
+    circ(X + dx * 7.5, Y + dy * 7.5, 2.4, shade(THEME.bone, -0.12), 1); circ(X + dx * 6.9, Y + dy * 6.9, 0.8, '#fff', 0);
+  }
+}
+
+// kłódka na zablokowany slot klasy (rysowana w kwadracie size x size ze środkiem w (cx,cy))
+export function drawLock(g, cx, cy, size, col = '#8a8272') {
+  const { poly, ln } = kit(g), s = size / 2;
+  g.beginPath(); g.arc(cx, cy - s * 0.25, s * 0.42, Math.PI, 0); g.lineWidth = Math.max(1.5, size * 0.1); g.strokeStyle = col; g.stroke();
+  poly([[cx - s * 0.62, cy - s * 0.2], [cx + s * 0.62, cy - s * 0.2], [cx + s * 0.62, cy + s * 0.7], [cx - s * 0.62, cy + s * 0.7]], col, 1.2, THEME.edge);
+  ln([[cx, cy + s * 0.12], [cx, cy + s * 0.42]], Math.max(1.5, size * 0.09), THEME.edge);
+}
+
+// przenosi ramki do zmiennych CSS (border-image), wywoływane raz po załadowaniu strony
+export function installFrames(doc = document, S = 48) {
+  const root = doc.documentElement.style;
+  for (const kind of Object.keys(KINDS)) { const c = doc.createElement('canvas'); c.width = c.height = S; drawPlate(c.getContext('2d'), S, kind); root.setProperty(`--f-${kind}`, `url(${c.toDataURL()})`); }
+}

diff --git a/src/art/classes.js b/src/art/classes.js
@@ -51,6 +51,9 @@ export const CLASS_LOOKS = {
   },
 };
 export const CLASS_IDS = Object.keys(CLASS_LOOKS);
+// Rząd klas w kreatorze jak w Dofusie: gotowe klasy, potem zarezerwowane sloty na kolejne (zablokowane do czasu dodania).
+export const CLASS_SLOT_COUNT = 8;
+export const CLASS_SLOTS = [...CLASS_IDS.map((id) => ({ id, locked: false })), ...Array.from({ length: CLASS_SLOT_COUNT - CLASS_IDS.length }, (_, i) => ({ id: `wkrotce${i + 1}`, locked: true }))];
 
 export function heroSpec(classId, o = {}) {
   const L = CLASS_LOOKS[classId]; if (!L) throw new Error(`Nieznana klasa: ${classId}`);

diff --git a/docs/PLAN_UI_DOFUS.md b/docs/PLAN_UI_DOFUS.md
@@ -1,6 +1,7 @@
 # Plan: interfejs w klimacie Dofusa (do akceptacji)
 
-Status: **czeka na akceptację**. Zrobione już: twarze i różnice płci w postaciach, środek kafla w walce. Poniżej to, co zostało.
+Status: **zatwierdzony**. Decyzje autora: kreator bliżej Dofusa 1:1 (rząd klas na dole, sloty na kolejne klasy), kolejka tur w lewym górnym rogu, ramki mroczne (kute żelazo i kość z mosiężnym akcentem), kolejna rodzina wrogów to owady i pajęczaki.
+Zrobione: twarze i różnice płci, środek kafla, oprawa `src/art/ui.js`, kreator ze sceną i rzędem 8 slotów klas (3 gotowe, 5 zablokowanych), ramki w walce, kolejka tur. Zostaje: strzałki ‹ › przy częściach wyglądu i interfejs wyglądu dla nie-humanoidów.
 
 ## Wnioski z uwag
 - Kreator to teraz zakładki z przyciskami. Dofus to **duża postać na scenie**, klasy jako **duże portrety/emblematy**, wybór części przez **strzałki** i **palety kolorów**, ozdobna ramka. Brakuje nam nastroju i "wow" przy pierwszym uruchomieniu.
